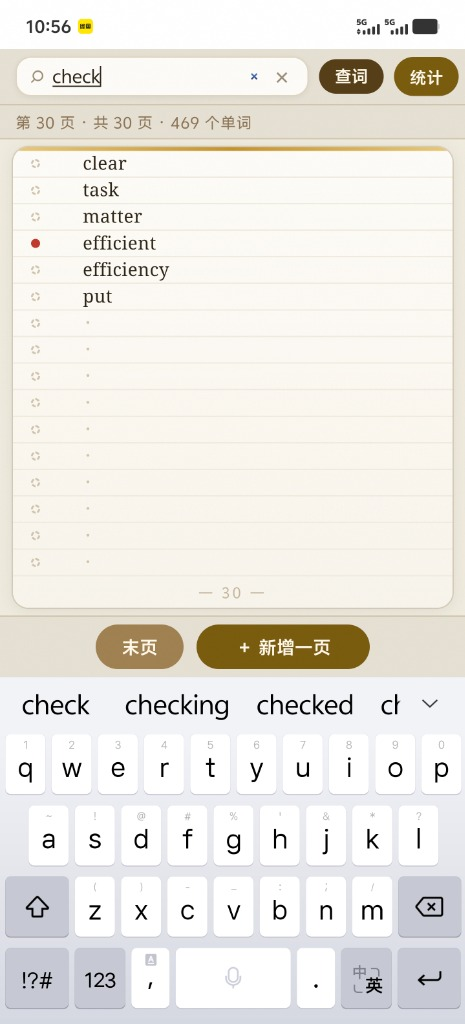
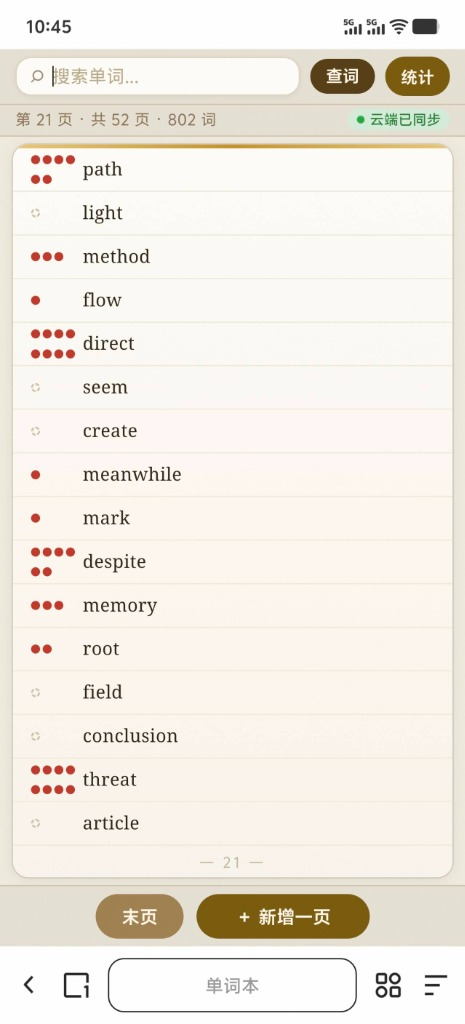
docs: 替换为最新4张真机全功能演示截图

diff --git a/README.md b/README.md
@@ -26,23 +26,25 @@
     <tr>
       <td align="center" width="50%">
         <b>📖 复古纸张记词主界面</b><br/><br/>
-        <img src="docs/screenshots/01-home-notebook.jpg" width="320" alt="复古纸张主界面" />
+        <img src="docs/screenshots/01-home-notebook.jpg" width="320" alt="复古纸张主界面" /><br/>
+        <sub>拟物纸质触感 · 16 格排版 · 艾宾浩斯圆圈打点</sub>
       </td>
       <td align="center" width="50%">
         <b>🔍 内置双语词典与实时发音</b><br/><br/>
-        <img src="docs/screenshots/02-dict-modal.jpg" width="320" alt="内置双语词典" />
+        <img src="docs/screenshots/02-dict-modal.jpg" width="320" alt="内置双语词典" /><br/>
+        <sub>纯净音标显示 · 完整释义 · 真人朗读 · 一键加词</sub>
       </td>
     </tr>
     <tr>
       <td align="center" width="50%">
-        <b>📊 统计页与教学考核抽测</b><br/><br/>
-        <img src="docs/screenshots/03-stats-view.jpg" width="320" alt="选择统计与自测界面 (待添加截图)" /><br/>
-        <sub><i>(此处可放入统计页与 15 词盲测抽查截图)</i></sub>
+        <b>📊 统计面板与教学考核抽测</b><br/><br/>
+        <img src="docs/screenshots/03-stats-view.jpg" width="320" alt="选择统计与自测界面" /><br/>
+        <sub>遗忘高频排序 · 教学打点防跳动固化 · 15 词盲测抽查</sub>
       </td>
       <td align="center" width="50%">
-        <b>☁ 多端云同步与历史数据打捞</b><br/><br/>
-        <img src="docs/screenshots/04-sync-and-tools.jpg" width="320" alt="多设备同步与打捞弹窗 (待添加截图)" /><br/>
-        <sub><i>(此处可放入云同步设置或历史版本打捞弹窗截图)</i></sub>
+        <b>☁ 多端云同步与数据管理</b><br/><br/>
+        <img src="docs/screenshots/04-sync-and-tools.jpg" width="320" alt="多设备同步与数据管理工具箱" /><br/>
+        <sub>Vercel KV 实时同步 · txt 备份 · 历史打捞 · 空白页清理</sub>
       </td>
     </tr>
   </table>
